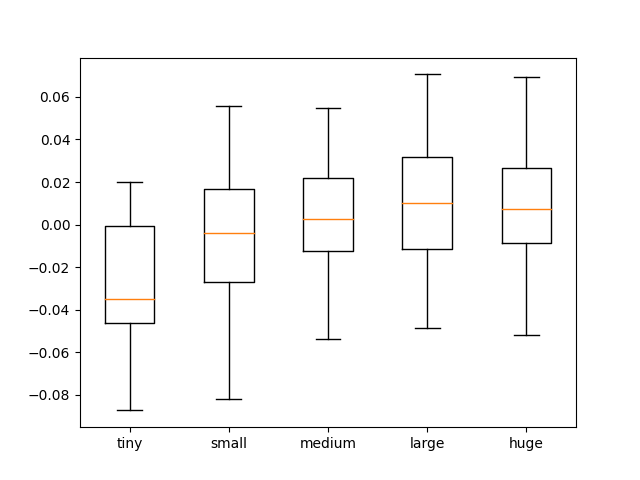
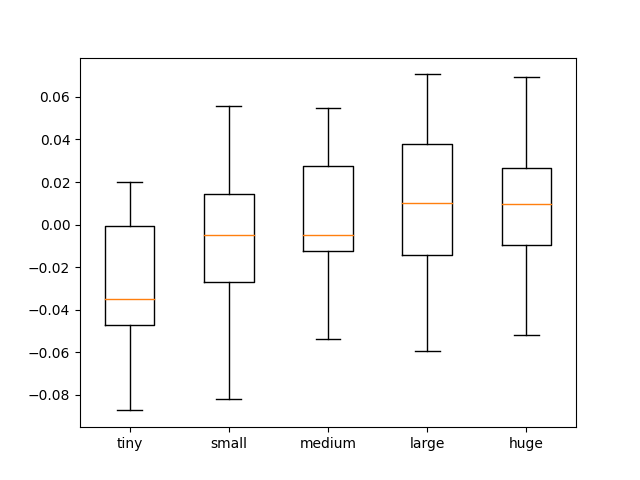
new size plots

diff --git a/probing/emb_for_size.py b/probing/emb_for_size.py
@@ -12,10 +12,11 @@ device = "cuda" if torch.cuda.is_available() else "cpu"
 
 def model_output(model, tokenizer, model_name, text):
     if model_name=='bert' or model_name=='oscar':
-        # 1 input word but 3 input_ids, the middle one is the token, 
-        # the other two are EOS and BOS
+        # For each input word, remove the EOS and BOS tokens and take the
+        # avergae embedding for the middle subword tokens.
         input_ids = torch.tensor([tokenizer.encode(text)]).to(device)
-        features = model.embeddings(input_ids=input_ids)[0][1]
+        features = model.embeddings(input_ids=input_ids)[0][1:-1]
+        features = torch.mean(features, dim=0)
     elif model_name=='clip':
         text_input = clip.tokenize(text).to(device)
         features = model.encode_text(text_input)
@@ -29,6 +30,59 @@ def load_size_db(group):
             data.append(line.strip())
     return data
 
+def cross_model_comparison(model_names, model_size, plot='boxplot'):
+    adj1 = 'large'
+    adj2 = 'small'
+    words = []
+    groups = ['tiny', 'small', 'medium', 'large', 'huge']
+    cdict = {'tiny': 'skyblue', 'small': 'cornflowerblue', 'medium': 'royalblue', 'large': 'blue', 'huge': 'navy'}
+    if len(model_names) == 2 or plot=='boxplot':
+        fig, ax = plt.subplots()
+    else:
+        fig = plt.figure()
+        ax = fig.add_subplot(projection='3d')
+
+    data = [[] for _ in range(len(model_names))]
+    for i, model_name in enumerate(model_names):
+        model, tokenizer = init_model(model_name, model_size, device)
+        features1 = model_output(model, tokenizer, model_name, adj1)
+        features2 = model_output(model, tokenizer, model_name, adj2)
+        for group in groups:
+            words = load_size_db(group)
+            sims = []
+            for subj in words:
+                feature_sub = model_output(model, tokenizer, model_name, subj)
+                # large sim indicates preference towards adj1
+                sim = 1 - distance.cosine(features1-features2, feature_sub)
+                sims.append(sim)
+            data[i].append(sims)
+    if plot=='scatter':
+        for i, group in enumerate(groups):
+            ax.scatter(data[0][i], data[1][i], data[2][i], c=cdict[group], label=group)
+            # for j, word in enumerate(load_size_db(group)):
+            #     ax.annotate(word, (sims[0][i][j], sims[1][i][j]))
+            ax.set_xlabel(f'{model_names[0]} cos_sim')
+            ax.set_ylabel(f'{model_names[1]} cos_sim')
+            if len(model_names) == 3:
+                ax.set_zlabel(f'{model_names[2]} cos_sim')
+        ax.legend()
+    else:
+        def set_box_color(bp, color):
+            plt.setp(bp['boxes'], color=color)
+            plt.setp(bp['whiskers'], color=color)
+            plt.setp(bp['caps'], color=color)
+            plt.setp(bp['medians'], color=color)
+        colors = ['red', 'orange', 'green']
+        for i in range(len(model_names)):
+            bp = plt.boxplot(data[i], showfliers=False)
+            set_box_color(bp, color=colors[i])
+            plt.plot([], c=colors[i], label=model_names[i])
+        plt.legend()
+        plt.xticks([1,2,3,4,5], labels=groups)
+        plt.ylabel('cos_sim')
+    plt.savefig(f'probing/plots/size_comparison_{plot}.png', bbox_inches='tight')
+
+
 def run():
     parser = argparse.ArgumentParser(description='eval parser')
     parser.add_argument('--model', type=str, default='bert',
@@ -41,8 +95,6 @@ def run():
     model, tokenizer = init_model(model_name, args.model_size, device)
     adj1 = 'large'
     adj2 = 'small'
-    # adj1 = 'hot'
-    # adj2 = 'cold'
     features1 = model_output(model, tokenizer, model_name, adj1)
     features2 = model_output(model, tokenizer, model_name, adj2)
     # calculate cosine similarity for size subjs of all 5 groups
@@ -59,15 +111,11 @@ def run():
         data.append(sims)
     plt.boxplot(data, showfliers=False)  # , showfliers=False
     plt.xticks([1,2,3,4,5], groups)
-    plt.savefig(f'probing/boxplots/size_boxplot_{model_name}.png')
-    # colors = ['blue', 'purple', 'yellow', 'pink', 'red']
-    # for subj in colors:
-    #     feature_sub = model_output(model, tokenizer, model_name, subj)
-    #     sim = 1 - distance.cosine(features1-features2, feature_sub)
-    #     data.append([sim])
-    # plt.boxplot(data, showfliers=False)  # , showfliers=False
-    # plt.xticks([1,2,3,4,5], colors)
-    # plt.savefig(f'probing/boxplots/color_boxplot_{model_name}.png')
+    plt.savefig(f'probing/plots/size_boxplot_{model_name}.png')
+
 
 if __name__ == '__main__':
-    run()
+    if True:
+        cross_model_comparison(['bert', 'oscar', 'clip'], 'base', plot='scatter')
+    else:
+        run()

diff --git a/probing/eval_classification.py b/probing/eval_classification.py
@@ -12,7 +12,7 @@ from datasets import load_dataset
 import torch
 import argparse
 
-from models import init_model, load_dist_file, load_data, load_prompts, load_word_file
+from models import *
 
 device = "cuda" if torch.cuda.is_available() else "cpu"
 
@@ -51,25 +51,10 @@ def get_word_ids(relation, objs):
         word_ids.append(word_ls.index(object))
     return word_ids
 
-def run():
-    parser = argparse.ArgumentParser(description='eval parser')
-    parser.add_argument('--model', type=str, default='bert',
-                        help='name of the model (bert, oscar, or clip)')
-    parser.add_argument('--model_size', type=str, default='base',
-                        help='size of the model (base, large)')
-    parser.add_argument('--relation', type=str, default='shape',
-                        help='relation to evaluate (shape, material, color, coda)')
-    parser.add_argument('--group', type=str, default='',
-                        help='group to evaluate (single, multi, any, or '' for all))')
-    parser.add_argument('--seed', type=int, default=1,
-                        help='numpy random seed')
-    parser.add_argument('--step', type=int, default=-1,
-                        help='step size of increasing training size')
-    parser.add_argument('--single_prompt', type=bool, default=False,
-                        help='whether to use a single prompt')
-    args = parser.parse_args()
-    np.random.seed(args.seed)
-
+def run(args):
+    '''
+    Returns the best test set accuracy and sp correlation across all templates.
+    '''
     # Load the model
     model_name = args.model
     model, tokenizer = init_model(model_name, args.model_size, device)
@@ -106,6 +91,7 @@ def run():
         print()
         acc_all_temps = []
         corr_all_temps = []
+        corr_stds = []
         for i in range(len(templates)):  # still, same template per test set
             train_features = train_all_temps[i][0][:train_data_size]
             train_labels = train_all_temps[i][1][:train_data_size]
@@ -140,10 +126,45 @@ def run():
                 if np.sum(true_dist) != 0: sp_corrs.append(sp)
             sp_corr = np.mean(sp_corrs)
             corr_all_temps.append(sp_corr)
-            print('avg sp corr:', sp_corr)
+            corr_stds.append(np.std(sp_corrs))
+            print('avg sp corr:', sp_corr)  # avg across all test examples for one template
         print('best acc across all templates:', np.max(acc_all_temps))
-        print('best sp corr across all templates:', np.max(corr_all_temps))
+        max_id = np.argmax(corr_all_temps)
+        print('best sp corr across all templates:', corr_all_temps[max_id])
 
+    return round(corr_all_temps[max_id], 3), round(corr_stds[max_id], 3), round(np.max(acc_all_temps), 1) 
 
 if __name__ == '__main__':
-    run()
+    parser = argparse.ArgumentParser(description='eval parser')
+    parser.add_argument('--model', type=str, default='bert',
+                        help='name of the model (bert, oscar, or clip)')
+    parser.add_argument('--model_size', type=str, default='base',
+                        help='size of the model (base, large)')
+    parser.add_argument('--relation', type=str, default='shape',
+                        help='relation to evaluate (shape, material, color, coda, cooccur)')
+    parser.add_argument('--group', type=str, default='',
+                        help='group to evaluate (single, multi, any, or '' for all))')
+    parser.add_argument('--seed', type=int, default=1,
+                        help='numpy random seed')
+    parser.add_argument('--step', type=int, default=-1,
+                        help='step size of increasing training size')
+    parser.add_argument('--single_prompt', type=bool, default=False,
+                        help='whether to use a single prompt')
+    args = parser.parse_args()
+    sp_mean, sp_std, acc = run(args)
+    print(sp_std)
+
+    # rel_types = ['wiki-shape', 'wiki-material', 'wiki-color']
+    # d = {rel: [] for rel in rel_types}
+    # for relation in rel_types:
+    #     print(relation)
+    #     for group in ['']:  # , 'single', 'multi', 'any'
+    #         for model in ['bert', 'oscar', 'clip']:  # 
+    #             args = Args(model, relation, group)
+    #             np.random.seed(args.seed)
+    #             sp_mean, sp_std, acc = run(args)
+    #             d[relation].append((sp_mean, sp_std, acc))
+    # import pandas as pd
+    # df = pd.DataFrame(d)
+    # df.to_excel('file.xlsx')
+    # print(df)

diff --git a/probing/eval_zero_shot.py b/probing/eval_zero_shot.py
@@ -2,8 +2,9 @@ import torch
 import numpy as np
 import argparse
 from tqdm import tqdm
-from scipy.stats.stats import kendalltau, pearsonr, spearmanr
-from models import init_mlm_model, load_dist_file, load_data, load_prompts, load_word_file, plot_dists
+from scipy.stats.stats import ModeResult, kendalltau, pearsonr, spearmanr
+from scipy import stats
+from models import *
 
 device = "cuda" if torch.cuda.is_available() else "cpu"
 
@@ -16,20 +17,11 @@ def get_log_probs(token_ids, model, mask_id):
     log_probs = torch.nn.LogSoftmax(dim=0)(hs)
     return log_probs.cpu().numpy()
 
-def run():
-    parser = argparse.ArgumentParser(description='zero-shot eval parser')
-    parser.add_argument('--model', type=str, default='bert',
-                        help='name of the model (bert, roberta, albert, oscar, or distil_bert)')
-    parser.add_argument('--model_size', type=str, default='base',
-                        help='size of the model (base, large)')
-    parser.add_argument('--relation', type=str, default='shape',
-                        help='relation to evaluate (shape, material, color, coda)')
-    parser.add_argument('--group', type=str, default='',
-                        help='group to evaluate (single, multi, any, or '' for all))')
-    parser.add_argument('--seed', type=int, default=1,
-                        help='numpy random seed')
-    args = parser.parse_args()
-
+def run(args):
+    '''
+    Obtains the best accuracy and sp correlation across all templates for each 
+    test example, and returns the averages.
+    '''
     model, tokenizer = init_mlm_model(args.model, args.model_size, device)
     mask_token = tokenizer.mask_token
     mask_id = tokenizer.convert_tokens_to_ids(mask_token)
@@ -75,11 +67,42 @@ def run():
             dist_pairs.append((vg_dist, model_dist[sp_max_idx].tolist(), data[0]))
             record.append((correct_idx, sp_max_idx))
 
-    plot_dists(sp_corrs, np.array(dist_pairs, dtype=object), group, args.model)
+    # plot_dists(sp_corrs, np.array(dist_pairs, dtype=object), relation, group, args.model)
     #print('Recorded correct pred & max sp corr templates:', record)
     print('Prediction accuracy:', correct / len(test_data))
     print('Mean and Std of Sp Corr:', np.mean(sp_corrs), np.std(sp_corrs))
 
+    #return round(np.mean(sp_corrs),3), round(np.std(sp_corrs),3), round(correct/len(test_data)*100,1)
+    return sp_corrs
 
 if __name__ == '__main__':
-    run()
+    # parser = argparse.ArgumentParser(description='zero-shot eval parser')
+    # parser.add_argument('--model', type=str, default='bert',
+    #                     help='name of the model (bert, roberta, albert, vokenization, oscar, or distil_bert)')
+    # parser.add_argument('--model_size', type=str, default='base',
+    #                     help='size of the model (base, large)')
+    # parser.add_argument('--relation', type=str, default='shape',
+    #                     help='relation to evaluate (shape, material, color, coda, cooccur)')
+    # parser.add_argument('--group', type=str, default='',
+    #                     help='group to evaluate (single, multi, any, or '' for all))')
+    # args = parser.parse_args()
+    # sp_mean, sp_std, acc = run(args)
+
+    rel_types = ['coda']  # 'shape', 'material', 'color', 'coda', 'cooccur'
+    d = {rel: [] for rel in rel_types}
+    for relation in rel_types:
+        sp_corrs = []
+        print(relation)
+        groups = ['']  # , 'single', 'multi', 'any'
+        for group in groups:
+            for model in ['bert', 'oscar']:  # 'bert', 'oscar', 'distil_bert', 'roberta', 
+                args = Args(model, relation, group)
+                #sp_mean, sp_std, acc = run(args)
+                #d[relation].append((sp_mean, sp_std, acc))
+                sp_corrs.append(run(args))
+        print(stats.ttest_ind(sp_corrs[0], sp_corrs[1], equal_var=False))
+
+    # import pandas as pd
+    # df = pd.DataFrame(d)
+    # df.to_excel('file.xlsx')
+    # print(df)

diff --git a/probing/models.py b/probing/models.py
@@ -10,6 +10,17 @@ from pytorch_transformers import BertConfig
 from modeling_bert import BertImgModel, BertImgForPreTraining
 
 
+class Args():
+    def __init__(self, model, relation, group, model_size='base', seed=1, step=-1):
+        self.model = model
+        self.model_size = model_size
+        self.relation = relation
+        self.group = group
+        self.seed = seed
+        self.step = step
+        self.single_prompt = False
+
+
 def init_model(model_name='bert', model_size='base', device='cpu'):
     if model_name == 'bert':
         model = BertModel.from_pretrained(f"bert-{model_size}-cased").to(device)
@@ -62,6 +73,7 @@ def init_mlm_model(model_name='bert', model_size='base', device='cpu'):
 
 
 def load_prompts(type):
+    if 'wiki-' in type: type = type.split('-')[1]
     prompts_file = f'soft-prompts/prompts/vl/{type}.jsonl'
     prompts = []
     with open(prompts_file, 'r') as f:
@@ -81,6 +93,7 @@ def load_data(file):
     return data, list(objs)
 
 def load_word_file(type, single_slot=True):
+    if 'wiki-' in type: type = type.split('-')[1]
     words_file = f'mine-data/words/{type}-words.txt'
     word_ls = []
     with open(words_file, 'r') as f:
@@ -111,7 +124,7 @@ def plot_half(dist_pairs, ax, x_axis, model):
     ax.set_xticks(x_axis)
     ax.set_xlabel('object ids')
 
-def plot_dists(sp_corrs, dist_pairs, group, model, num_to_plot=3):
+def plot_dists(sp_corrs, dist_pairs, rel, group, model, num_to_plot=3):
     '''
     plot the k examples that have highest & lowest (each) corr between coda and vg distributions.
     sp_corrs: list of sp corrs
@@ -131,4 +144,4 @@ def plot_dists(sp_corrs, dist_pairs, group, model, num_to_plot=3):
     plot_half(dist_pairs[min_idxs], ax2, x_axis, model)
     ax2.set_title('low correlation')
     if group == '': group = 'all'
-    plt.savefig(f'zero_shot_plt_{group}.png')
+    plt.savefig(f'probing/plots/zero_shot_plt_{rel}_{group}_{model}.png')
